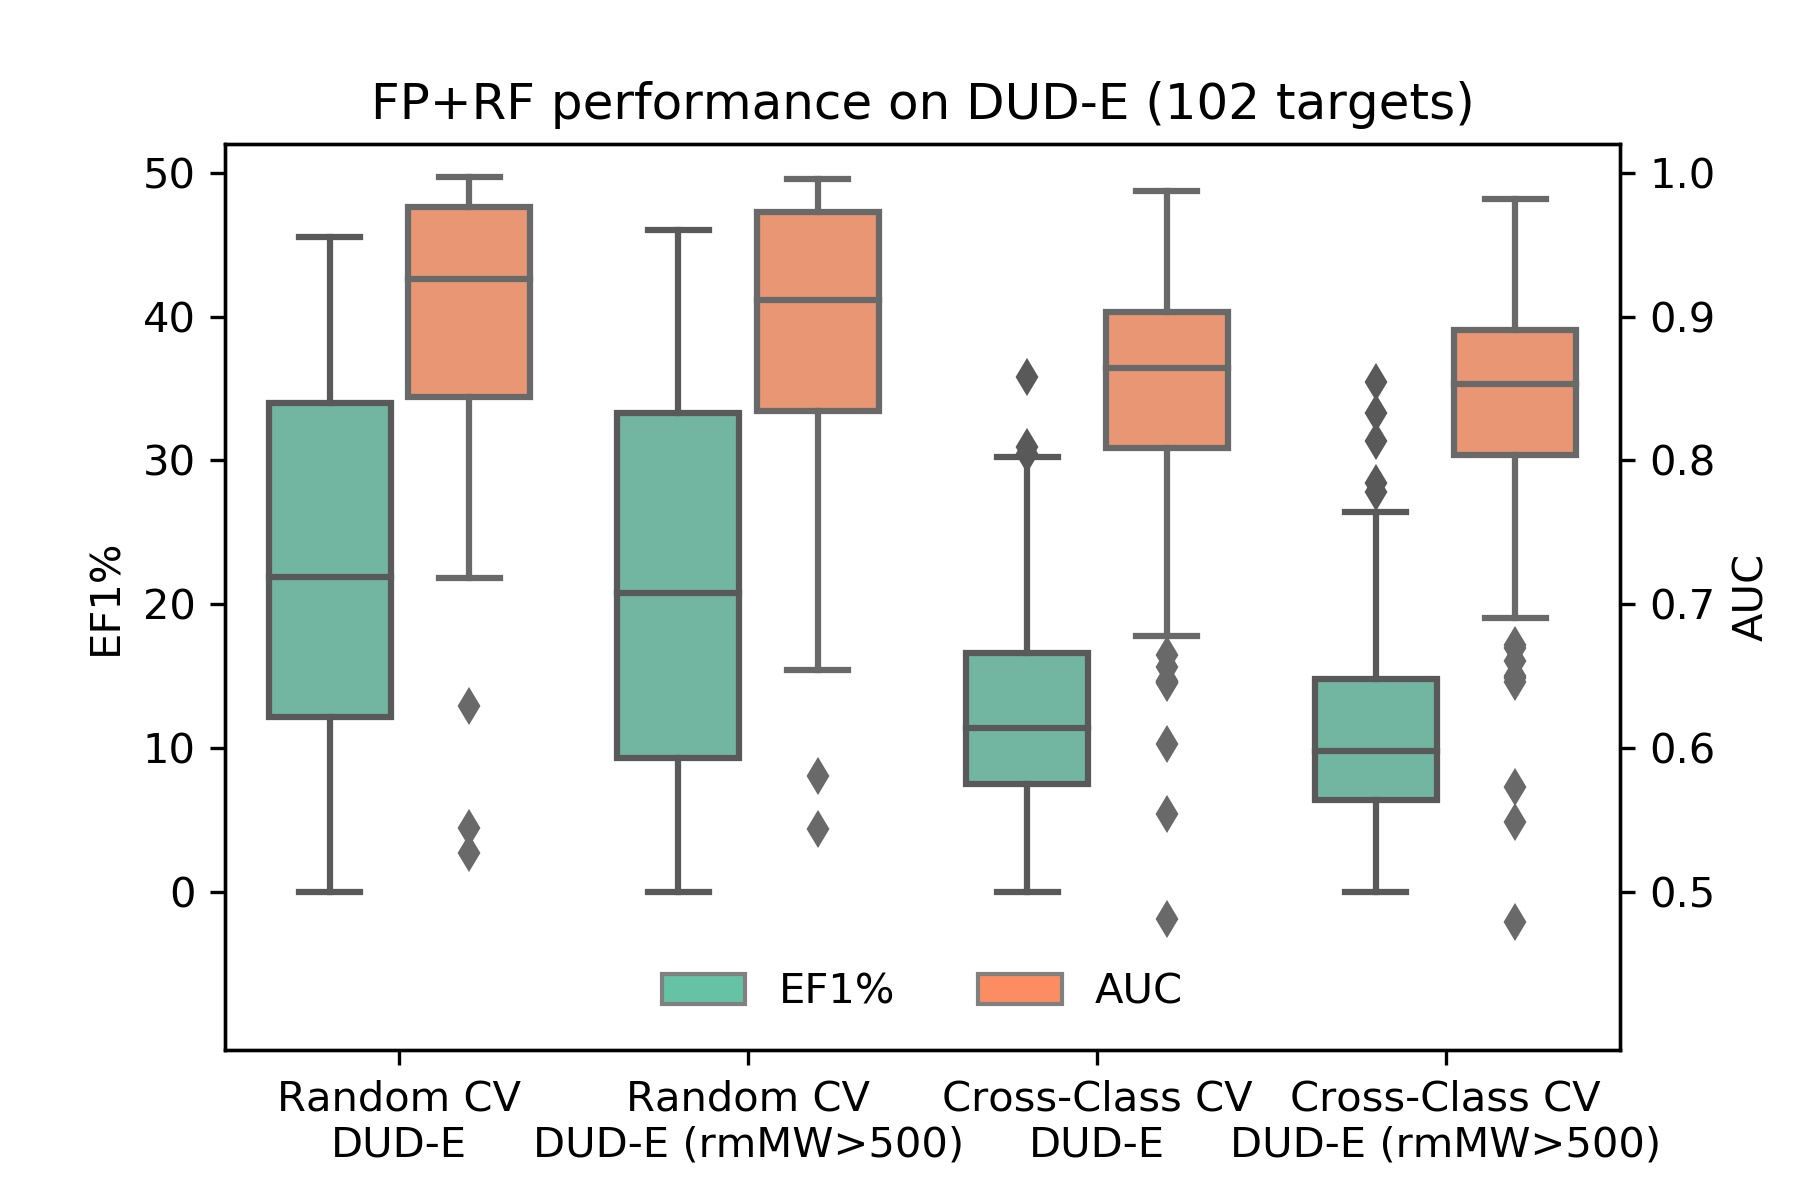
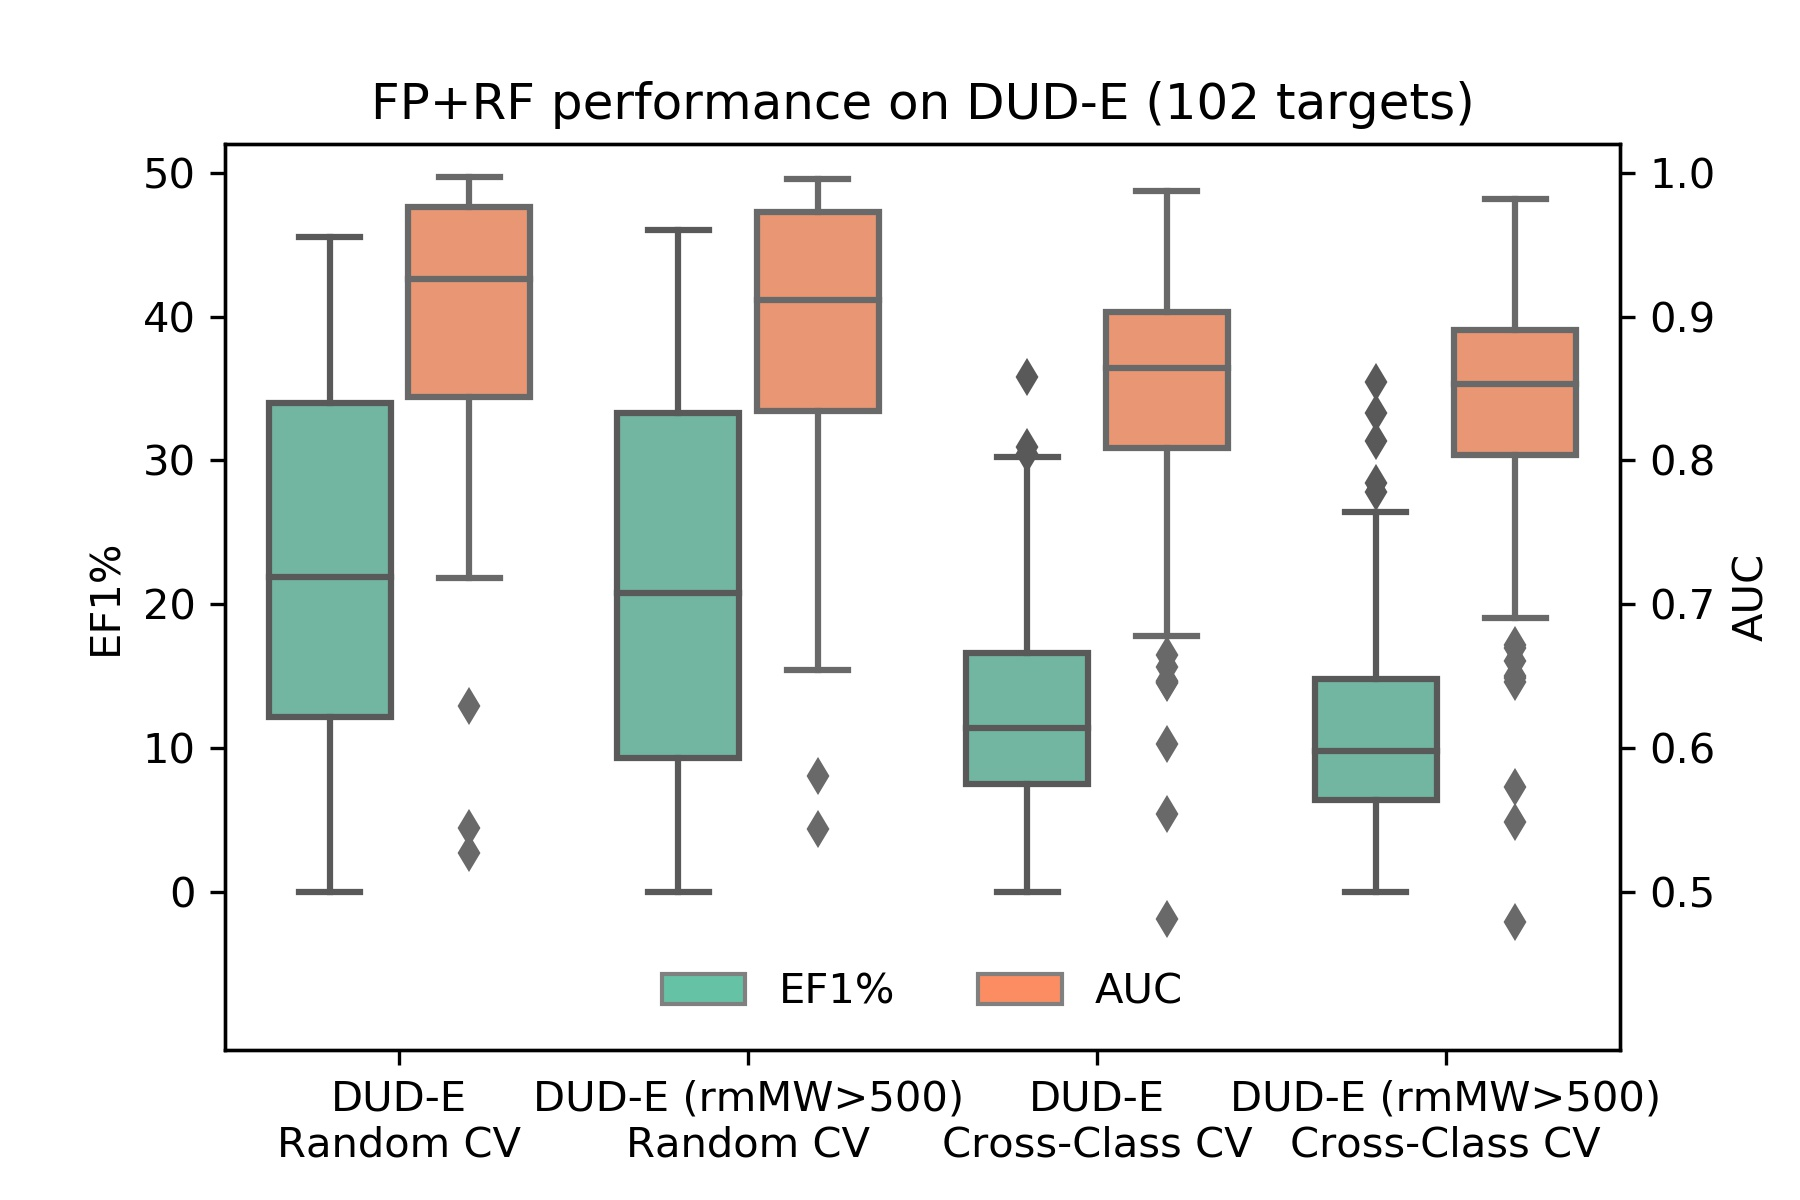
change for easier modifying labels in powerpoint

Changed region(s): [[0.1556, 0.8942, 0.9333, 0.9867]]

diff --git a/dude/figures/box.py b/dude/figures/box.py
@@ -12,10 +12,10 @@ from matplotlib import pyplot as plt
 print(Path.cwd())
 root = Path('dude/figures')
 files = {
-    'Random CV\nDUD-E': 'full.random3fold.None.csv',
-    'Random CV\nDUD-E (rmMW>500)': 'full.random3fold.rmMW500.csv',
-    'Cross-Class CV\nDUD-E': 'full.family3fold.None.csv',
-    'Cross-Class CV\nDUD-E (rmMW>500)': 'full.family3fold.rmMW500.csv',
+    'DUD-E\nRandom CV': 'full.random3fold.None.csv',
+    'DUD-E (rmMW>500)\nRandom CV': 'full.random3fold.rmMW500.csv',
+    'DUD-E\nCross-Class CV': 'full.family3fold.None.csv',
+    'DUD-E (rmMW>500)\nCross-Class CV': 'full.family3fold.rmMW500.csv',
 }
 dfs = {}
 for k, v in files.items():
